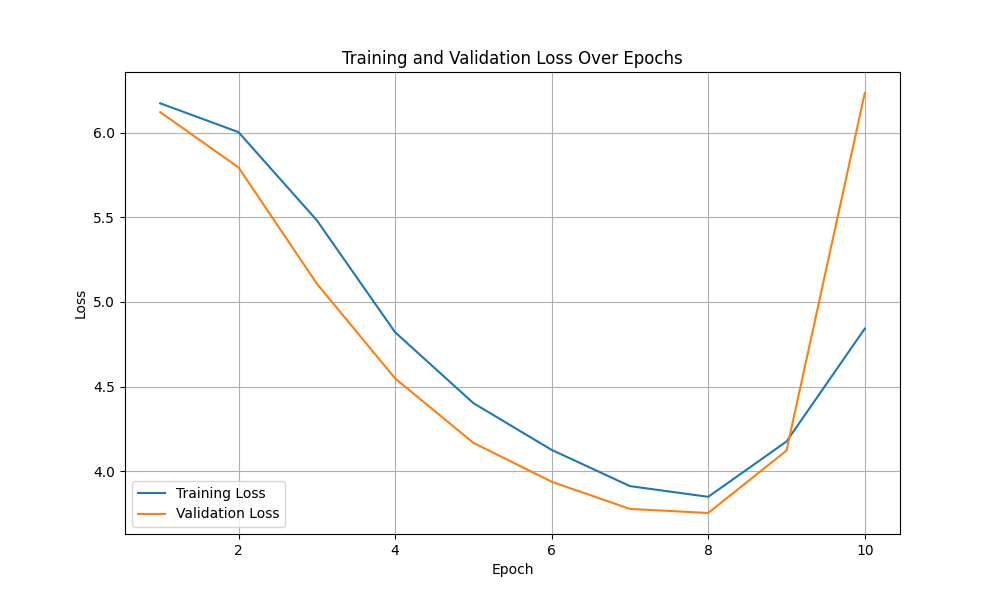
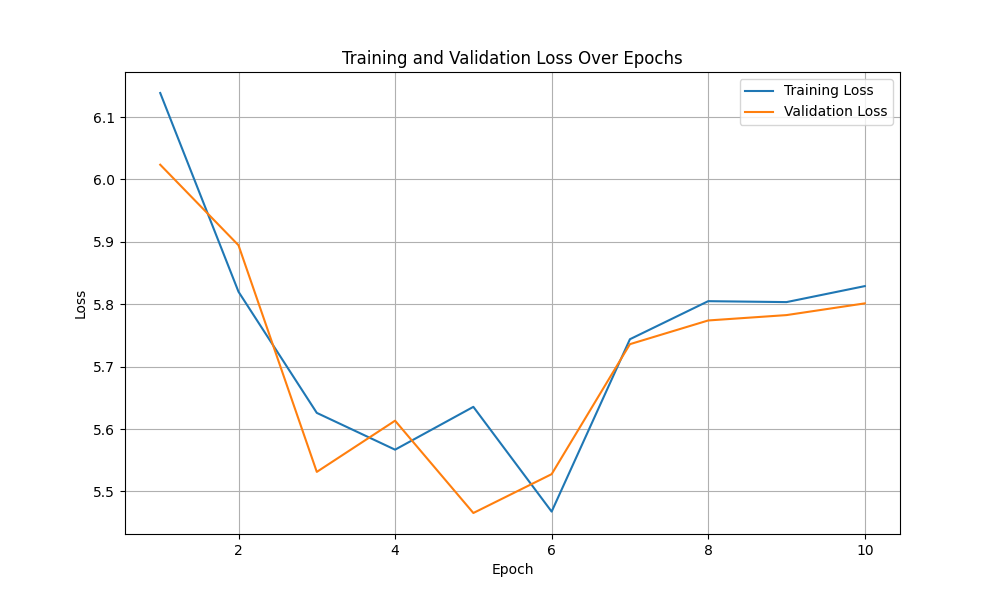
updated mpg

diff --git a/train_mnist.py b/train_mnist.py
@@ -96,16 +96,16 @@ def main():
 
     # Define the MLP architecture
     layer1 = Layer(fan_in=784, fan_out=128, activation_function=Relu())
-    layer2 = Layer(fan_in=128, fan_out=64, activation_function=Relu())
+    layer2 = Layer(fan_in=128, fan_out=64, activation_function=Softmax())
     output_layer = Layer(fan_in=64, fan_out=10, activation_function=Softmax())
 
     mlp_model = MultilayerPerceptron(layers=(layer1, layer2, output_layer))
     loss_function = CrossEntropy()  # Use cross-entropy for multi-class classification
 
     # Set training hyperparameters
-    learning_rate = 1e-4
-    batch_size = 64
-    epochs = 50
+    learning_rate = 1e-3
+    batch_size = 32
+    epochs = 10
 
     print("Starting training...")
     training_losses, validation_losses = mlp_model.train(
